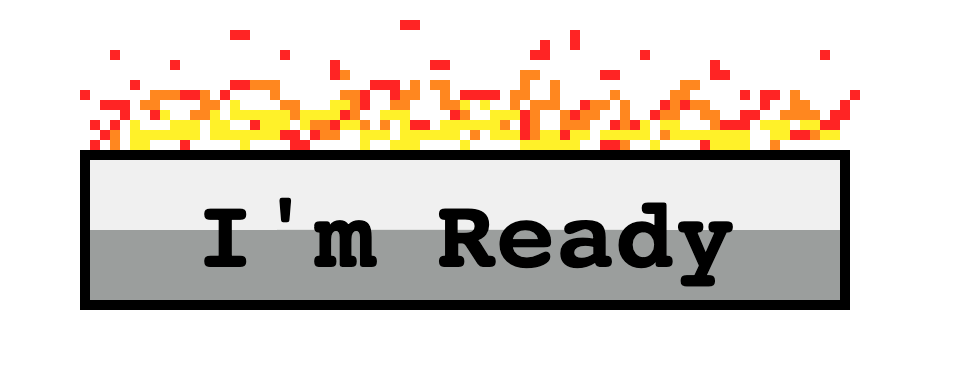
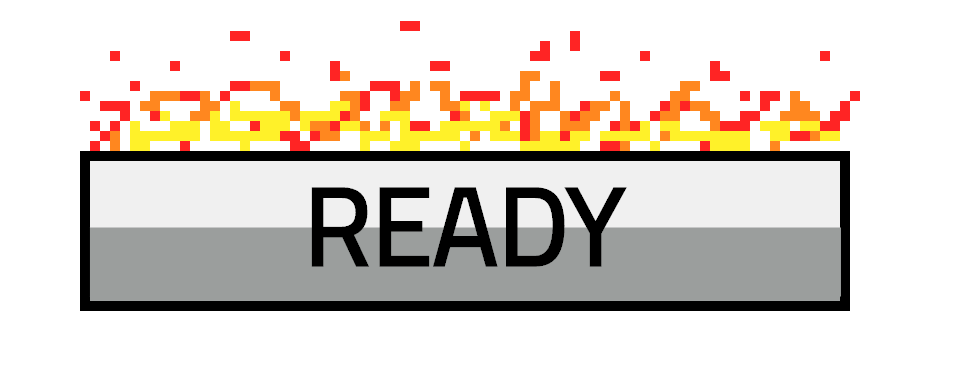
final

diff --git a/public/waitingRoom.js b/public/waitingRoom.js
@@ -30,6 +30,10 @@ export default class WaitingRoom extends Phaser.Scene {
     this.ready = true;
     this.socket.emit("playerReady");
   }
+  playerNotReady() {
+    this.ready = false;
+    this.socket.emit("playerNotReady")
+  }
 
   startGame() {
     this.timedEvent = this.time.delayedCall(100, this.onEvent, [], this);
@@ -61,7 +65,8 @@ export default class WaitingRoom extends Phaser.Scene {
       frameHeight: 125,
       spacing: 1,
     });
-    this.load.image("button", "assets/readyButton.png");
+    this.load.image("notReadyButton", "assets/notReadyButton.png");
+    this.load.image("readyButton", "assets/readyButton.png");
     this.load.image("easybutton", "assets/easy.png");
     this.load.image("mediumbutton", "assets/medium.png");
     this.load.image("hardbutton", "assets/hard.png");
@@ -138,12 +143,31 @@ export default class WaitingRoom extends Phaser.Scene {
     this.levelText = this.add.text(600, 1850);
     this.levelText.setScale(2);
 
-    this.startButton = this.add.sprite(800, 2000, "button").setInteractive();
-    this.startButton.setScale(0.2);
-    this.startButton.on("pointerdown", () => {
+    this.readyButton = this.add.sprite(800, 2000, "readyButton").setInteractive();
+    this.readyButton.setScale(0.2);
+    this.readyButton.visible = false
+
+
+    this.notReadyButton = this.add.sprite(800, 2000, "notReadyButton").setInteractive();
+    this.notReadyButton.setScale(0.2);
+
+    // im ready
+    this.notReadyButton.on("pointerdown", () => {
       if (!this.gameInSession) {
+        this.notReadyButton.visible = false
+        this.readyButton.visible = true
         this.playerReady();
       }
+      //im not ready
+      this.readyButton.on("pointerdown", () => {
+        if (!this.gameInSession) {
+          this.readyButton.visible = false;
+          this.notReadyButton.visible = true;
+          this.playerNotReady()
+        }
+      })
+
+
     });
     this.easyButton = this.add.sprite(500, 1800, "easybutton").setInteractive();
     this.easyButton.setScale(0.2);
@@ -180,7 +204,7 @@ export default class WaitingRoom extends Phaser.Scene {
     if (this.gameInSession) {
       this.text.setText("GAME IN SESSION");
     } else {
-      this.text.setText("PRESS I'M READY TO START GAME");
+      this.text.setText("PRESS READY BUTTON TO START GAME");
     }
 
     if (this.ready && this.otherPlayers) {

diff --git a/server.js b/server.js
@@ -74,6 +74,11 @@ io.on("connection", function (socket) {
   //update all other players of the new player
   socket.broadcast.emit("newPlayer", players[socket.id]);
 
+
+  socket.on("playerNotReady", () => {
+    players[socket.id].ready = false;
+  })
+
   socket.on("playerReady", () => {
     players[socket.id].ready = true;
     // socket.broadcast.emit('readyCheck', socket.id);
